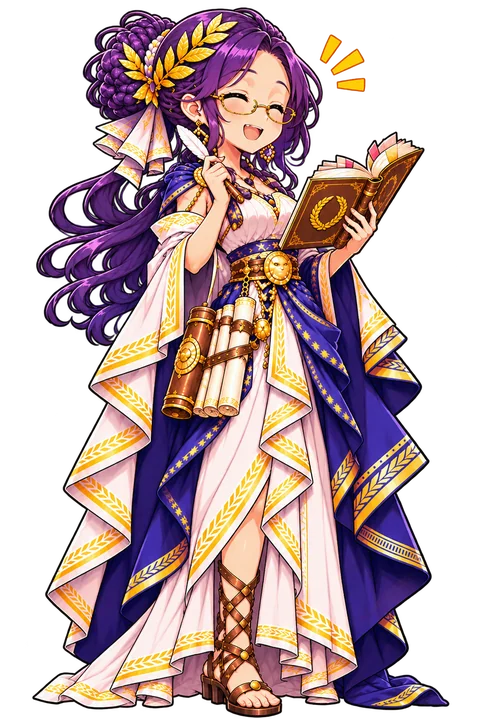
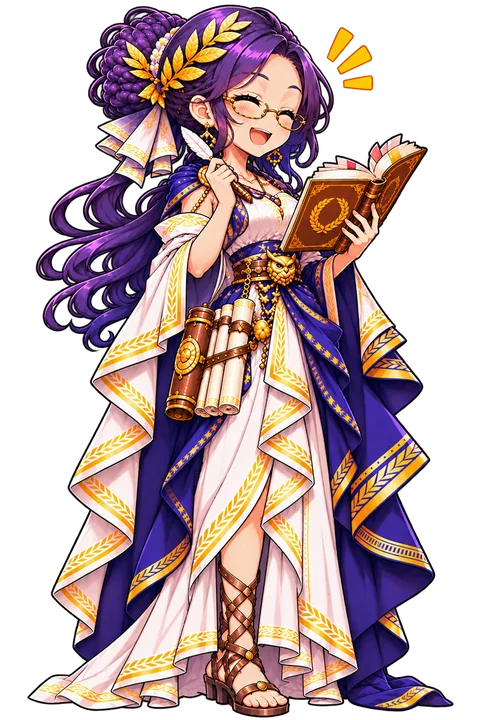
セネカの差分立ち絵(心配性・喜び)を新しいデザインに(Ver.1.865)

diff --git a/index.html b/index.html
@@ -31,7 +31,7 @@
 <link rel="preconnect" href="https://fonts.googleapis.com">
 <link rel="preconnect" href="https://fonts.gstatic.com" crossorigin>
 <link href="https://fonts.googleapis.com/css2?family=Noto+Sans+JP:wght@500&display=swap" rel="stylesheet">
-<link rel="stylesheet" href="style.css?v=1.864">
+<link rel="stylesheet" href="style.css?v=1.865">
 </head>
 <body>
   <!-- 著作権表示 (2026-10-03, per user request) -- 常時表示だが画面右下に小さく/控えめに配置し、
@@ -45,7 +45,7 @@
        取得させる効果は無かった(iPad Safariがそれらをキャッシュしたまま使い続けていたと判明) --
        今後はこの番号と合わせて、下の全<script src>/<link>に付けた?v=X.XXXクエリ文字列も必ず
        同じ値に更新すること(実際にURLを変えることでキャッシュを回避する、こちらが本体)。 -->
-  <div id="copyright-notice">© 2026 higebucho Ver.1.864</div>
+  <div id="copyright-notice">© 2026 higebucho Ver.1.865</div>
 
   <!-- 入口バナー (2026-10-04, per user request: "HPに入ったときに大き目バナーを用意して導線をわかりやすく
        したい") -- #app/#weekly-seat-pickerと同じ「画面を丸ごと差し替える」パターン(main.jsのrender()
@@ -68,7 +68,7 @@
         <!-- バージョン表示 (2026-10-08, per user request: "セリフで見えにくいので トップ画像の右下にも") --
              #copyright-noticeはゲーム中のセリフ吹き出しに隠れて見えにくいため、入口バナー(トップ画像)の
              右下にも同じ番号を複製表示する。中身は#copyright-noticeと手動で同期させること。 -->
-        <div id="entry-banner__version">Ver.1.864</div>
+        <div id="entry-banner__version">Ver.1.865</div>
         <!-- 見出し文言+CTA (2026-10-11, per user request: "ダイスで築く、あなただけの王国。などの文言も
              前と同じように表示して 今すぐプレイボタンも" -- 旧画像に焼き込まれていたキャッチコピーを、
              新背景では実テキストとして表示(per user: "文言は後から変更できるように" -- 画像ではなく
@@ -136,7 +136,7 @@
       <button type="button" id="session-resume-top-button" class="session-resume-overlay__button">トップに戻る</button>
       <!-- バージョン表示 (2026-10-23, per user request: この画面の時にもバージョンを) -- 入口バナーの
            #entry-banner__versionと同じく、更新のたびにバージョン番号を書き換える。 -->
-      <div id="session-resume-overlay__version">Ver.1.864</div>
+      <div id="session-resume-overlay__version">Ver.1.865</div>
     </div>
   </div>
 
@@ -1156,53 +1156,53 @@
   </script>
 
   <!-- Leaf: no src/*.js dependencies. -->
-  <script src="src/rng.js?v=1.864"></script>
+  <script src="src/rng.js?v=1.865"></script>
   <script>__captureModule('rng');</script>
 
   <!-- Depends on: rng -->
-  <script src="src/game-state.js?v=1.864"></script>
+  <script src="src/game-state.js?v=1.865"></script>
   <script>__captureModule('game-state');</script>
 
   <!-- Leaf: no src/*.js dependencies. -->
-  <script src="src/dsl-parser.js?v=1.864"></script>
+  <script src="src/dsl-parser.js?v=1.865"></script>
   <script>__captureModule('dsl-parser');</script>
 
   <!-- Depends on: game-state (fs is only required lazily, on the Node path -- never called here). -->
-  <script src="src/data-loader.js?v=1.864"></script>
+  <script src="src/data-loader.js?v=1.865"></script>
   <script>__captureModule('data-loader');</script>
 
   <!-- Depends on: dsl-parser -->
-  <script src="src/command-builder.js?v=1.864"></script>
+  <script src="src/command-builder.js?v=1.865"></script>
   <script>__captureModule('command-builder');</script>
 
   <!-- Depends on: game-state -->
-  <script src="src/undo.js?v=1.864"></script>
+  <script src="src/undo.js?v=1.865"></script>
   <script>__captureModule('undo');</script>
 
   <!-- Depends on: dsl-parser, command-builder, data-loader, game-state, rng, undo -->
-  <script src="src/executor.js?v=1.864"></script>
+  <script src="src/executor.js?v=1.865"></script>
   <script>__captureModule('executor');</script>
 
   <!-- Depends on: data-loader, dsl-parser, command-builder, rng, executor. Loaded here (before
        board/turn-flow), not after turn-flow like before 2026-08-09 -- turn-flow.js's endRound now
        calls qst.resolveEndGameRewards (see that function's own doc), so qst must load first. -->
-  <script src="src/qst.js?v=1.864"></script>
+  <script src="src/qst.js?v=1.865"></script>
   <script>__captureModule('qst');</script>
 
   <!-- Depends on: data-loader, dsl-parser, command-builder, game-state, executor -->
-  <script src="src/board.js?v=1.864"></script>
+  <script src="src/board.js?v=1.865"></script>
   <script>__captureModule('board');</script>
 
   <!-- Depends on: rng, game-state, data-loader, executor, undo -->
-  <script src="src/setup.js?v=1.864"></script>
+  <script src="src/setup.js?v=1.865"></script>
   <script>__captureModule('setup');</script>
 
   <!-- Depends on: data-loader, executor -->
-  <script src="src/scoring.js?v=1.864"></script>
+  <script src="src/scoring.js?v=1.865"></script>
   <script>__captureModule('scoring');</script>
 
   <!-- Depends on: rng, data-loader, board, undo, setup, executor, qst -->
-  <script src="src/turn-flow.js?v=1.864"></script>
+  <script src="src/turn-flow.js?v=1.865"></script>
   <script>__captureModule('turn-flow');</script>
 
   <!-- AI player (2026-08-03, per user feedback: "プレイヤー1は人間 プレイヤー2 3 4はAIの対戦を実装
@@ -1211,51 +1211,51 @@
        Simulator/AIPlayer classes, no browser-only reimplementation. Order matches each file's own
        "Depends on" comment (see src/ai/*.js). -->
   <!-- Leaf: no src/*.js dependencies. -->
-  <script src="src/ai/eval-table.js?v=1.864"></script>
+  <script src="src/ai/eval-table.js?v=1.865"></script>
   <script>__captureModule('eval-table');</script>
 
   <!-- Depends on: board, executor, turn-flow, game-state -->
-  <script src="src/ai/simulator.js?v=1.864"></script>
+  <script src="src/ai/simulator.js?v=1.865"></script>
   <script>__captureModule('simulator');</script>
 
   <!-- Depends on: data-loader, dsl-parser, command-builder, game-state, board, executor -->
-  <script src="src/ai/move-generator.js?v=1.864"></script>
+  <script src="src/ai/move-generator.js?v=1.865"></script>
   <script>__captureModule('move-generator');</script>
 
   <!-- 評価値ALL (2026-10-30). Leaf: no src/*.js dependencies. -->
-  <script src="src/ai/eval-all.js?v=1.864"></script>
+  <script src="src/ai/eval-all.js?v=1.865"></script>
   <script>__captureModule('eval-all');</script>
 
   <!-- Depends on: data-loader, command-builder -->
-  <script src="src/ai/monument-incentive.js?v=1.864"></script>
+  <script src="src/ai/monument-incentive.js?v=1.865"></script>
   <script>__captureModule('monument-incentive');</script>
 
   <!-- Depends on: data-loader, command-builder, dsl-parser, executor, board, qst, eval-table, eval-all, monument-incentive -->
-  <script src="src/ai/evaluator.js?v=1.864"></script>
+  <script src="src/ai/evaluator.js?v=1.865"></script>
   <script>__captureModule('evaluator');</script>
 
   <!-- Leaf: no src/*.js dependencies. -->
-  <script src="src/ai/die-priority.js?v=1.864"></script>
+  <script src="src/ai/die-priority.js?v=1.865"></script>
   <script>__captureModule('die-priority');</script>
 
   <!-- Depends on: data-loader, board. -->
-  <script src="src/ai/slot-priority.js?v=1.864"></script>
+  <script src="src/ai/slot-priority.js?v=1.865"></script>
   <script>__captureModule('slot-priority');</script>
 
   <!-- Depends on: die-priority, slot-priority (takes the other 4 AI classes as constructor args instead). -->
-  <script src="src/ai/ai-player.js?v=1.864"></script>
+  <script src="src/ai/ai-player.js?v=1.865"></script>
   <script>__captureModule('ai-player');</script>
 
   <!-- AI LV4 smart onboarding (2026-08-27/28). Leaf: no src/*.js dependencies. -->
-  <script src="src/ai/resource-card-synergy.js?v=1.864"></script>
+  <script src="src/ai/resource-card-synergy.js?v=1.865"></script>
   <script>__captureModule('resource-card-synergy');</script>
 
   <!-- Depends on: eval-all -->
-  <script src="src/ai/con-job-synergy.js?v=1.864"></script>
+  <script src="src/ai/con-job-synergy.js?v=1.865"></script>
   <script>__captureModule('con-job-synergy');</script>
 
   <!-- Depends on: data-loader, resource-card-synergy, con-job-synergy, rng, setup, game-state -->
-  <script src="src/ai/smart-onboarding.js?v=1.864"></script>
+  <script src="src/ai/smart-onboarding.js?v=1.865"></script>
   <script>__captureModule('smart-onboarding');</script>
 
   <!-- Depends on: rng, setup, turn-flow, qst, scoring, executor, game-state, and (lazily, inside
@@ -1264,22 +1264,22 @@
        (2026-09-13, per user request) to synchronously generate an AI-LV4-vs-AI-LV4 round-1/2 board
        offline (no per-move animation) before the human takes over at round 3 -- every CLI tool under
        tools/ uses this same module under plain Node. -->
-  <script src="src/ai/game-runner.js?v=1.864"></script>
+  <script src="src/ai/game-runner.js?v=1.865"></script>
   <script>__captureModule('game-runner');</script>
 
   <!-- Game master data, embedded as window.GAME_DATA by tools/xlsx_to_json.py (see that file's and
        data-loader.js's comments -- file:// pages can't fetch() game.json, so this is a plain global
        instead, loaded the same way as everything else here). -->
-  <script src="data/game.data.js?v=1.864"></script>
+  <script src="data/game.data.js?v=1.865"></script>
 
   <!-- チュートリアルのセリフ (2026-09-28, per user request: "まずはセリフだけ反映されるようにしてください") --
        チュートリアル.xlsx を tools/tutorial_xlsx_to_js.py で変換した window.TUTORIAL_SERIFU。無くても
        main.js の実装側の本文にフォールバックするだけで動く。main.js より前に読み込むこと。 -->
-  <script src="data/tutorial.data.js?v=1.864"></script>
-  <script src="data/story.data.js?v=1.864"></script>
-  <script src="data/story2.data.js?v=1.864"></script>
-  <script src="data/story_seneca.data.js?v=1.864"></script>
-  <script src="data/story_ch4.data.js?v=1.864"></script>
+  <script src="data/tutorial.data.js?v=1.865"></script>
+  <script src="data/story.data.js?v=1.865"></script>
+  <script src="data/story2.data.js?v=1.865"></script>
+  <script src="data/story_seneca.data.js?v=1.865"></script>
+  <script src="data/story_ch4.data.js?v=1.865"></script>
 
   <!-- Firebase (2026-08-29, online multiplayer + cloud ranking/replay -- see the "オンライン対戦 +
        ランキング/リプレイのクラウド共有" plan). Compat build (namespaced firebase.* API, not the modular
@@ -1290,17 +1290,17 @@
   <script src="https://www.gstatic.com/firebasejs/12.16.0/firebase-app-compat.js"></script>
   <script src="https://www.gstatic.com/firebasejs/12.16.0/firebase-firestore-compat.js"></script>
   <script src="https://www.gstatic.com/firebasejs/12.16.0/firebase-storage-compat.js"></script>
-  <script src="firebase-config.js?v=1.864"></script>
-  <script src="online-sync.js?v=1.864"></script>
+  <script src="firebase-config.js?v=1.865"></script>
+  <script src="online-sync.js?v=1.865"></script>
 
-  <script src="ranking.js?v=1.864"></script>
-  <script src="main.js?v=1.864"></script>
+  <script src="ranking.js?v=1.865"></script>
+  <script src="main.js?v=1.865"></script>
   <!-- AIルール相談 (2026-10-20) -- main.jsとは独立、GameStateに触れない。see ai-rules-chat.js。 -->
-  <script src="ai-rules-chat.js?v=1.864"></script>
+  <script src="ai-rules-chat.js?v=1.865"></script>
   <!-- ストーリーモード (2026-10-23) -- main.jsのグローバル(el/renderDie/dieFace/buildActionIcons等)を使う、GameStateには触れない。see story.js。 -->
-  <script src="story.js?v=1.864"></script>
+  <script src="story.js?v=1.865"></script>
   <!-- バグ報告の掲示板 (2026-10-27) -- main.jsのグローバル(replayHistory/enterReplayMode等)を使う。see bug-board.js。 -->
-  <script src="bug-board.js?v=1.864"></script>
+  <script src="bug-board.js?v=1.865"></script>
   <!-- PWA Service Worker登録 (2026-10-22, per user request: "PWA対応させて...オフラインプレイ可能に") --
        'serviceWorker' in navigator でのfeature-detectionのみ(file://で開いた場合、file:オリジンは
        Service Worker登録自体をブラウザが拒否するため、.register()呼び出し自体がrejectされるだけで
